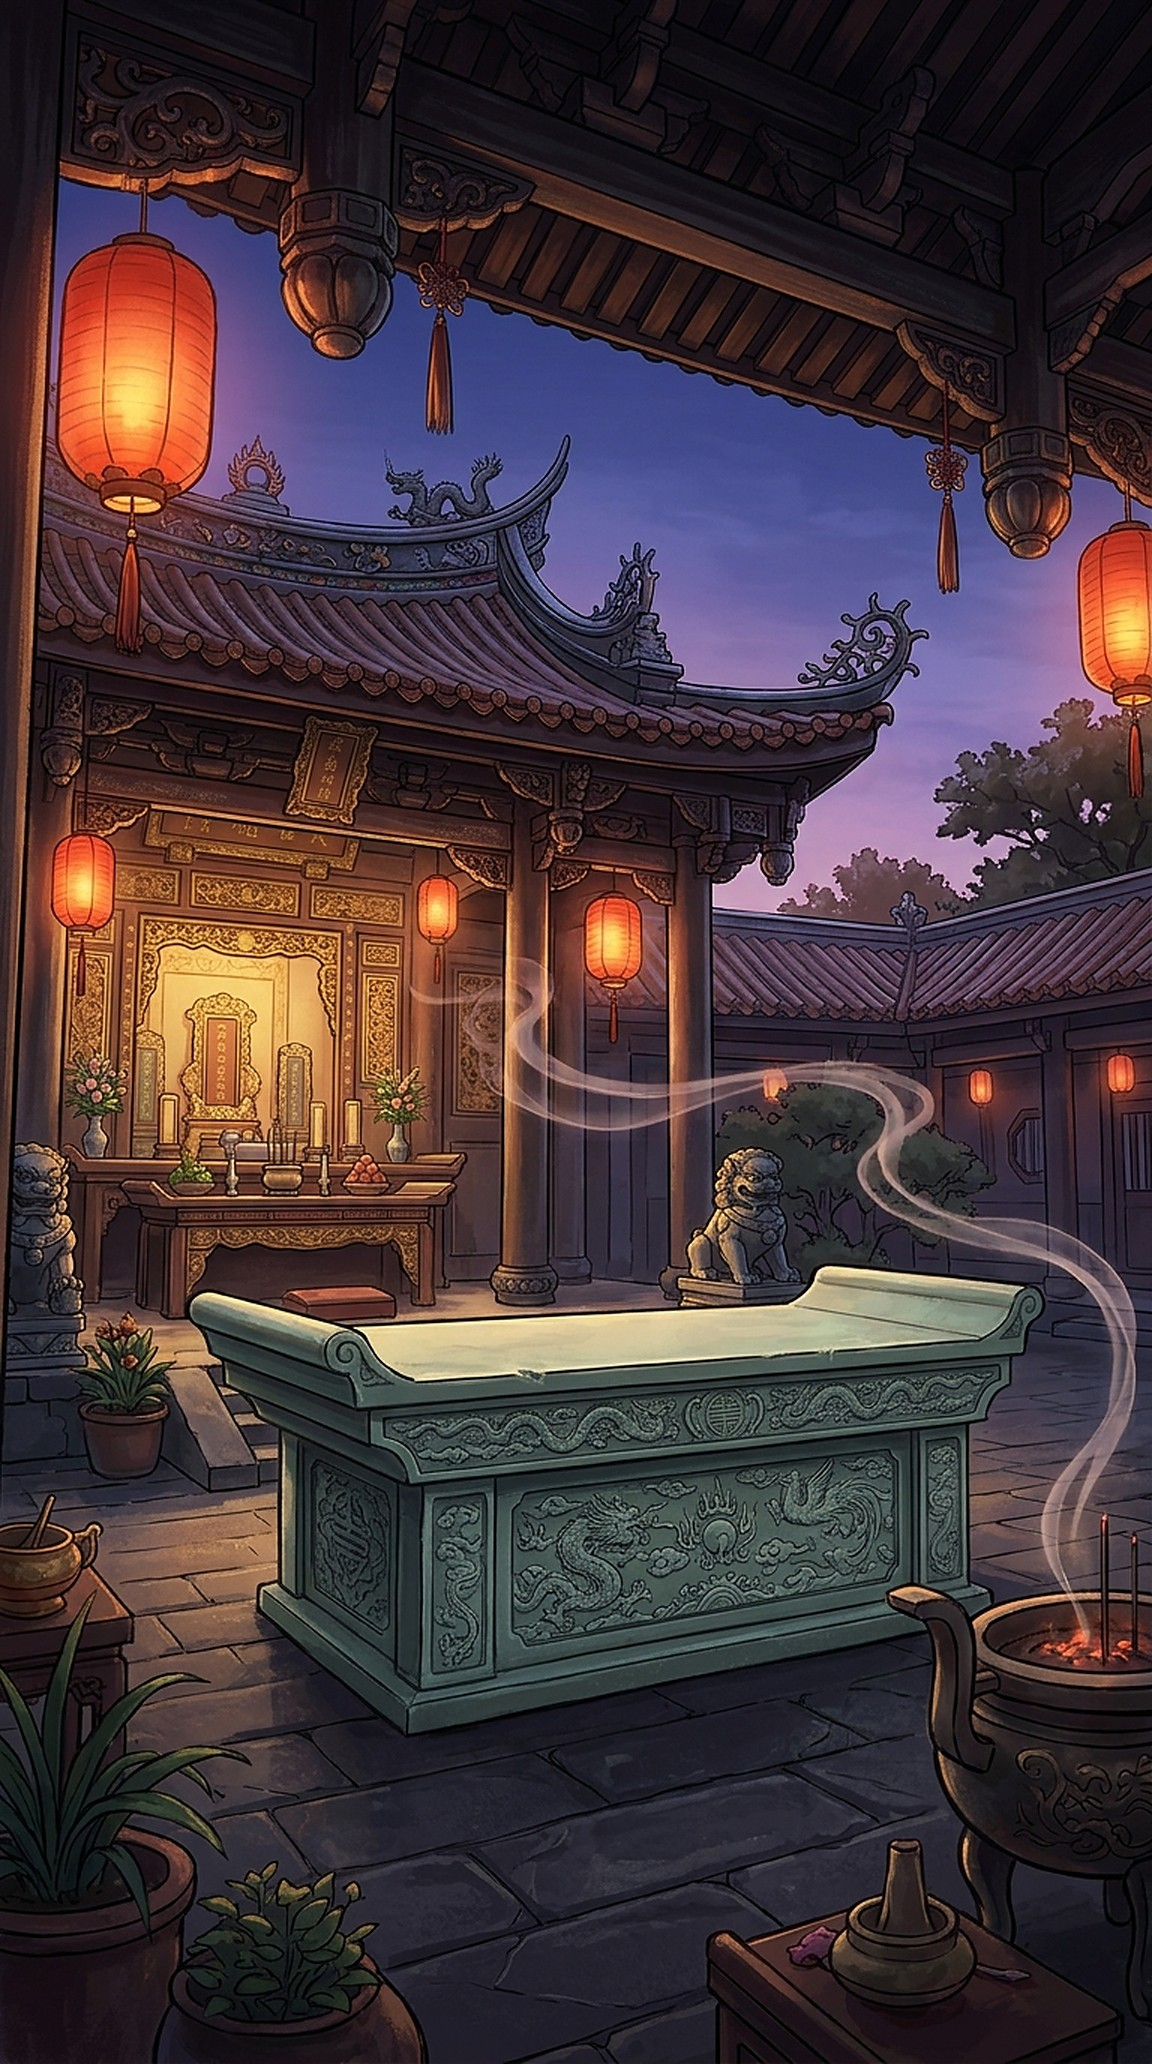
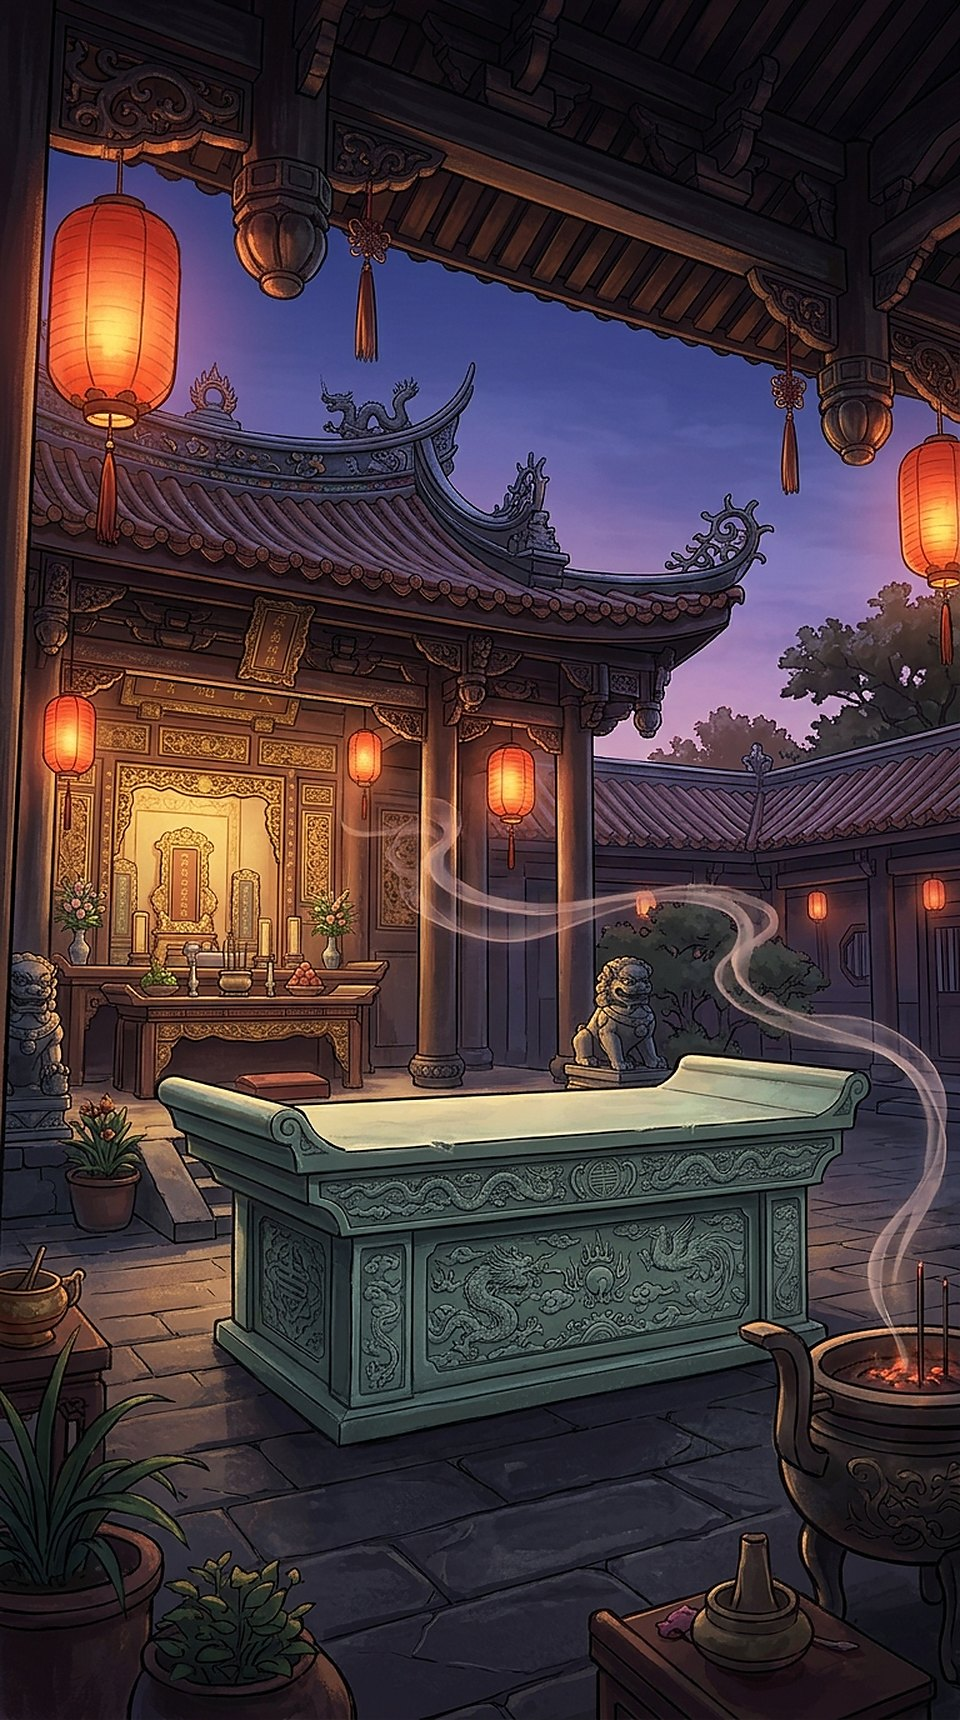
fix(xinan): compact 3-row mobile dock above-dock character placement, fullscreen HUD offset, and live auto-theater

Changed region(s): [[0.3125, 0.493, 0.3438, 0.5238]]

diff --git a/xinan.js b/xinan.js
@@ -305,6 +305,18 @@
   let charMood = "normal"; // "normal" | "happy" | "hurt_cry" | "innocent"
   let charMoodTimer = 0;
   let forceMoodForTest = null;
+  let autoTheater = true;
+  let theaterTimer = 2.4;
+  let theaterSlapCountdown = 2;
+
+  function updateFsPadding() {
+    const inEmbed = location.search.includes("embed=1");
+    const maybeFs = inEmbed && (!!document.fullscreenElement || window.innerHeight >= (window.screen?.height || 9999) - 90);
+    document.body.classList.toggle("in-fs", maybeFs);
+  }
+  window.addEventListener("resize", updateFsPadding);
+  document.addEventListener("fullscreenchange", updateFsPadding);
+  updateFsPadding();
 
   function setCharMood(nextMood, duration = 1.2) {
     charMood = nextMood;
@@ -510,7 +522,7 @@
       ultBtn.type = "button";
       ultBtn.id = "btnUltimateSlap";
       ultBtn.className = "rect-btn " + (slapCharge >= 10 ? "gold-btn" : "");
-      ultBtn.textContent = slapCharge >= 10 ? "黃金鎮煞重擊！" : `蓄力 (${slapCharge}/10)`;
+      ultBtn.textContent = slapCharge >= 10 ? "鎮煞重擊！" : `重擊 (${slapCharge}/10)`;
       ultBtn.disabled = slapCharge < 10;
       ultBtn.onclick = () => performSlap(true);
       actionRow.appendChild(ultBtn);
@@ -518,15 +530,19 @@
       const randBtn = document.createElement("button");
       randBtn.type = "button";
       randBtn.id = "btnRandomOffice";
-      randBtn.className = "rect-btn";
-      randBtn.textContent = "隨機劇場";
+      randBtn.className = "rect-btn " + (autoTheater ? "gold-btn" : "");
+      randBtn.textContent = autoTheater ? "劇場:演中" : "隨機劇場";
       randBtn.onclick = () => {
-        const pool = slapScenarios; // 名單恰好七人：不要把未核准的舊虛構角色混回抽選池
-        selectedScenario = pool[Math.floor(Math.random() * pool.length)];
-        customTargetLabel = "";
-        const ev = selectedScenario.officeEvents[Math.floor(Math.random() * selectedScenario.officeEvents.length)];
-        spawnFloatText(vw * 0.5, vh * 0.42, `${selectedScenario.label}：${ev}`, "#ffd980", 20);
-        setCharMood("innocent", 1.1);
+        autoTheater = !autoTheater;
+        if (autoTheater) {
+          const pool = slapScenarios;
+          selectedScenario = pool[Math.floor(Math.random() * pool.length)];
+          customTargetLabel = "";
+          const ev = selectedScenario.officeEvents[Math.floor(Math.random() * selectedScenario.officeEvents.length)];
+          spawnFloatText(vw * 0.5, vh * 0.34, `${selectedScenario.label}：${ev}`, "#ffd980", 19);
+          setCharMood("innocent", 1.1);
+          theaterTimer = 2.8;
+        }
         renderControls();
       };
       actionRow.appendChild(randBtn);
@@ -693,16 +709,42 @@
       const vImg = selectedScenario.fullBody
         ? getActiveFullBodySprite(selectedScenario.charKey)
         : imgs[selectedScenario.sprite];
-      // 所有全身角色依實際不透明像素邊界統一縮放到完全相同身高與腳底基準線
+      // 所有全身角色依實際不透明像素邊界統一縮放到完全相同身高與腳底基準線，且絕不被底部操控列遮擋
       const isWide = vw > vh;
-      const vSize = isWide ? Math.min(310, propBase * 0.44) : Math.min(250, propBase * 0.50);
+      const dockEl = document.querySelector(".bottom-dock");
+      const dockTop = dockEl ? dockEl.getBoundingClientRect().top : (vh - 125);
+      const hudEl = document.querySelector(".top-hud");
+      const hudBottom = hudEl ? hudEl.getBoundingClientRect().bottom : 58;
+      const safeSpan = Math.max(220, dockTop - hudBottom - 44);
+      const vSize = isWide ? Math.min(300, safeSpan * 0.68) : Math.min(230, safeSpan * 0.56);
       const scaleX = 1 + villainSquash * 0.14;
       const scaleY = 1 - villainSquash * 0.14;
-      const flyY = villainFly > 0 ? -Math.sin(villainFly * Math.PI) * 140 : 0;
+      const flyY = villainFly > 0 ? -Math.sin(villainFly * Math.PI) * 120 : 0;
       const wobble = villainDizzy > 0 ? Math.sin(t * 28) * 0.08 : Math.sin(t * 2.5) * 0.02;
 
+      // 隨機劇場自動輪演：持續演辦公室劇情＋三不五十自動打幾下
+      if (autoTheater && resultCard.classList.contains("hidden")) {
+        theaterTimer -= dt;
+        if (theaterTimer <= 0) {
+          theaterTimer = 2.8 + Math.random() * 1.4;
+          theaterSlapCountdown -= 1;
+          if (theaterSlapCountdown <= 0) {
+            theaterSlapCountdown = 2 + Math.floor(Math.random() * 2);
+            performSlap(false);
+          } else {
+            const pool = slapScenarios;
+            selectedScenario = pool[Math.floor(Math.random() * pool.length)];
+            customTargetLabel = "";
+            const ev = selectedScenario.officeEvents[Math.floor(Math.random() * selectedScenario.officeEvents.length)];
+            spawnFloatText(vw * 0.5, hudBottom + 56, `${selectedScenario.label}：${ev}`, "#ffd980", 18);
+            setCharMood(Math.random() < 0.45 ? "happy" : "innocent", 1.15);
+            renderControls();
+          }
+        }
+      }
+
       ctx.save();
-      const feetBaseY = altarY + 104;
+      const feetBaseY = Math.min(dockTop - 36, altarY + 86);
       ctx.translate(altarX, feetBaseY - vSize * 0.5 + flyY);
       ctx.rotate(wobble);
       ctx.scale(scaleX, scaleY);

diff --git a/xinan.css b/xinan.css
@@ -153,33 +153,51 @@ html, body {
   min-height: 32px;
 }
 
-/* 底部輕量操控列 */
+/* 底部極簡三列操控區（手機絕不遮擋神壇角色） */
 .bottom-dock {
   position: fixed;
-  left: 10px;
-  right: 10px;
-  bottom: max(10px, env(safe-area-inset-bottom));
+  left: 8px;
+  right: 8px;
+  bottom: max(8px, env(safe-area-inset-bottom));
   z-index: 20;
   display: flex;
   flex-direction: column;
-  gap: 7px;
+  gap: 5px;
   max-width: 560px;
   margin: 0 auto;
   pointer-events: none;
 }
 
-.chips-row, .action-row {
+.chips-row {
   display: flex;
-  flex-wrap: wrap;
+  flex-wrap: nowrap;
+  justify-content: flex-start;
+  gap: 5px;
+  overflow-x: auto;
+  scrollbar-width: none;
+  pointer-events: auto;
+  padding: 1px 2px;
+}
+.chips-row::-webkit-scrollbar { display: none; }
+
+@media (min-width: 560px) {
+  .chips-row { justify-content: center; }
+}
+
+.action-row {
+  display: flex;
+  flex-wrap: nowrap;
   justify-content: center;
   gap: 6px;
   pointer-events: auto;
 }
 
 .chip-btn {
-  padding: 5px 10px;
+  padding: 4px 9px;
   font-size: 12px;
-  background: rgba(20, 17, 26, 0.78);
+  white-space: nowrap;
+  flex-shrink: 0;
+  background: rgba(20, 17, 26, 0.82);
   backdrop-filter: blur(6px);
 }
 
@@ -197,11 +215,16 @@ html, body {
 }
 
 .rect-btn {
-  padding: 10px 18px;
-  font-size: 15px;
+  padding: 8px 12px;
+  font-size: 13px;
   font-weight: 700;
-  min-height: 42px;
-  letter-spacing: 1px;
+  min-height: 36px;
+  white-space: nowrap;
+  letter-spacing: 0.5px;
+}
+
+body.in-fs .top-hud {
+  top: 48px;
 }
 
 .rect-btn:active, .mode-btn:active, .chip-btn:active {

diff --git a/xinan.html b/xinan.html
@@ -16,7 +16,7 @@
         <span class="brand-seal">殿</span>
         <div class="brand-text">
           <h1>心安宮</h1>
-          <span class="sub">v_11:52:00</span>
+          <span class="sub">v_12:38:00</span>
         </div>
       </div>
 
